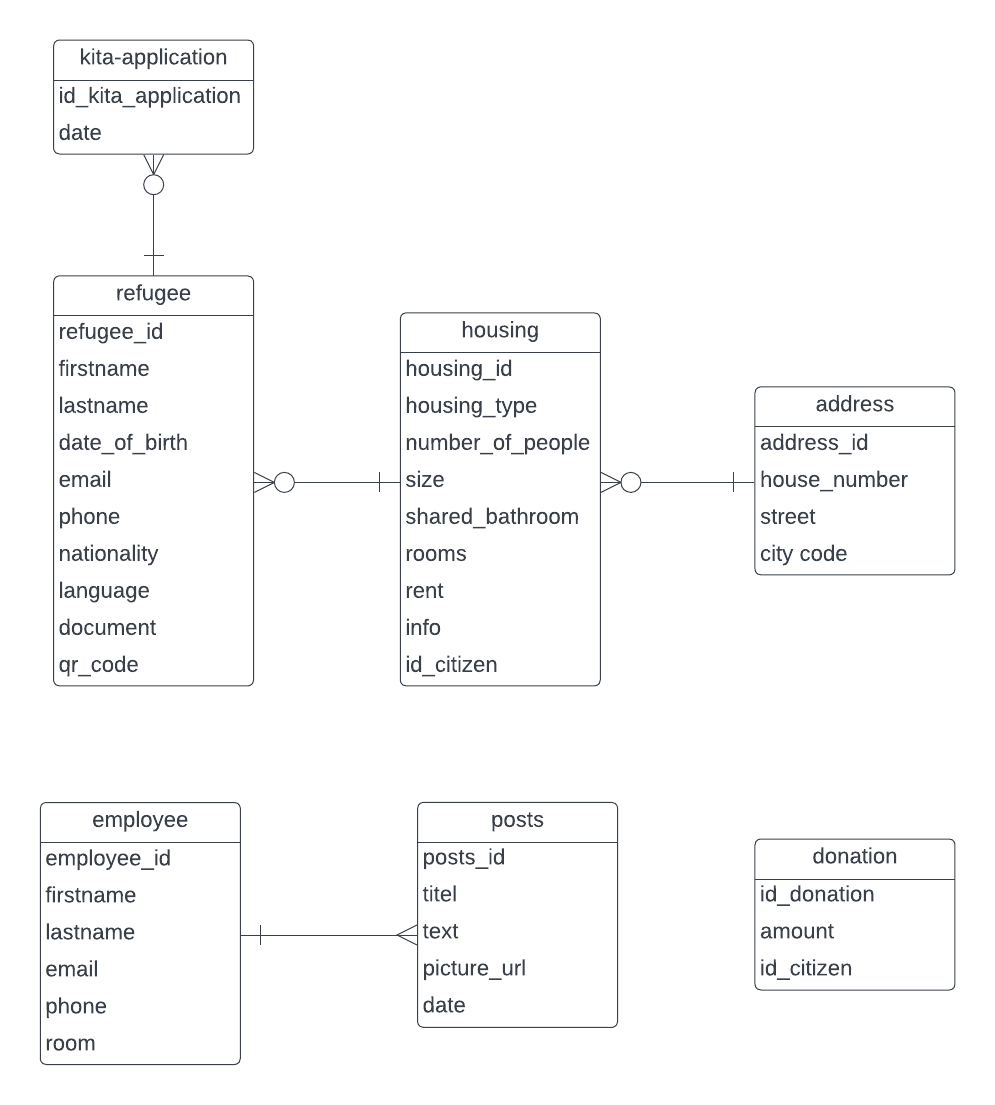
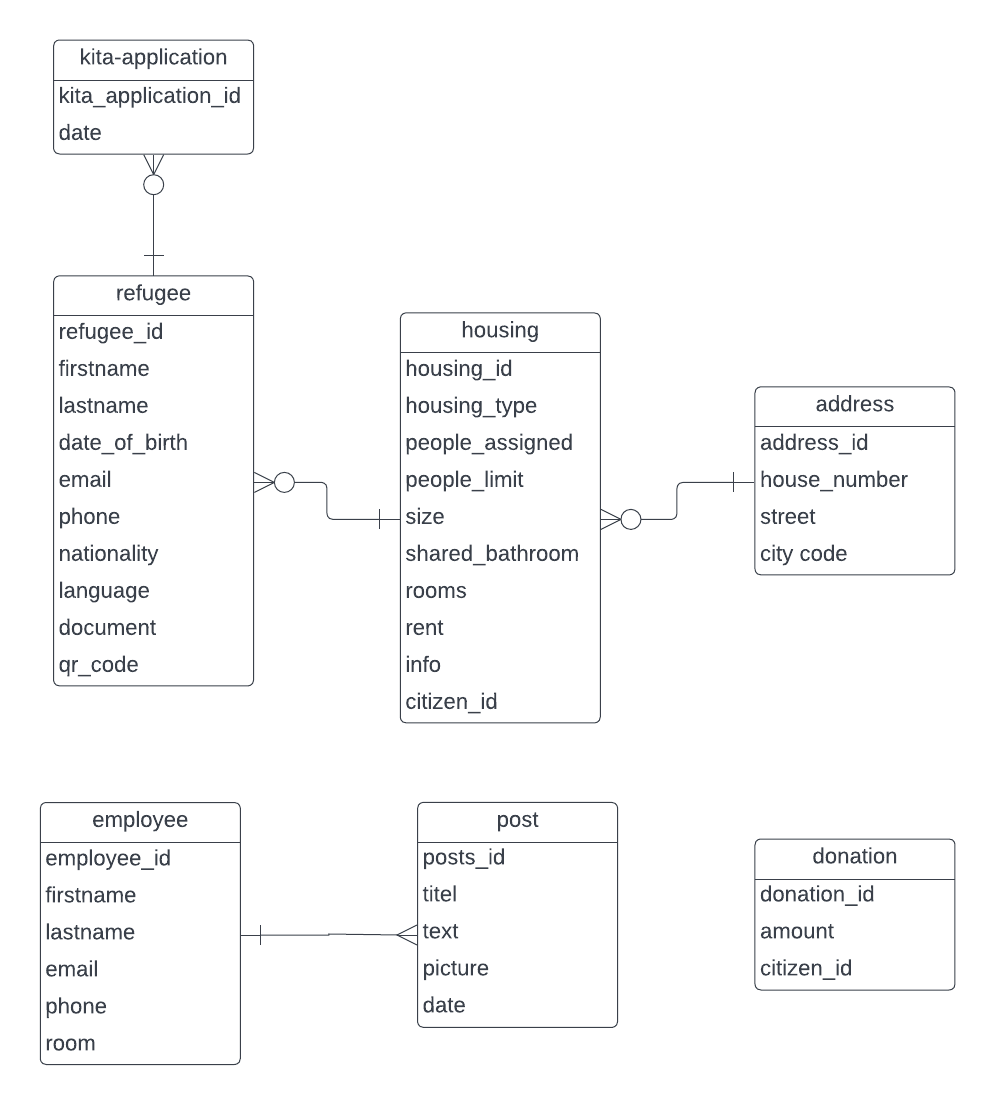
Integration update sprint-meeting
citizen_id to Integer
update interfaces
update database model

diff --git a/amt_fuer_integration/index.md b/amt_fuer_integration/index.md
@@ -286,10 +286,10 @@ http://smart.city/microservices/integration <!--- TODO replace --->
 | :------ | :------ | :----- | 
 | Bürgerbüro | private.integration | {<br>"event_id": 9000,<br>"event_name":"Register New Refugee",<br>"service_name": "integration",<br>"refugee": {<br>&emsp;"firstname": "John",<br>&emsp;"lastname": "Doe",<br>&emsp;"date of birth": "2000-01-20",<br>&emsp;"email": "john@doe.com",<br>&emsp;}<br> } |
 | Bürgerbüro | private.integration | {<br>"event_id": 9001,<br>"event_name":"Register New Refugee Family",<br>"service_name": "integration",<br>"parents": \[ {<br>&emsp;"firstname": "John",<br>&emsp;"lastname": "Doe",<br>&emsp;"date of birth": "12.08.2000",<br>&emsp;"email": "john@doe.com",<br>&emsp;},<br>&emsp;{<br>&emsp;"firstname": "John",<br>&emsp;"lastname": "Doe",<br>&emsp;"date of birth": "12.08.2000",<br>&emsp;"email": "john@doe.com",<br>&emsp;} \],<br>"children": \[ {<br>&emsp;"firstname": "John",<br>&emsp;"lastname": "Doe",<br>&emsp;"date of birth": "12.08.2000",<br>&emsp;"email": "john@doe.com",<br>&emsp;},<br>&emsp;{<br>&emsp;"firstname": "John",<br>&emsp;"lastname": "Doe",<br>&emsp;"date of birth": "12.08.2000",<br>&emsp;"email": "john@doe.com",<br>&emsp;} \]<br> } |
-| Kita-Verwaltung | private.integration | {<br>"event_id": 9002,<br>"event_name":"Refugee Kita Application",<br>"service_name": "integration",<br>"care_time": 35,<br>"child": { "id_citizen": "testid" },<br>"parent": \[{ "id_citizien": "testid" }, { "id_citizien": "testid" }, \]<br>} |
-| Finanzamt | private.integration | {<br>"event_id": 9003,<br>"event_name": "Notify Incoming Donation",<br>"service_name": "integration",<br>"amount": 50.45,<br>"id_citizen": "testid"<br>} |
-| Newsletter| public.integration | {<br>"event_id": 9004,<br>"event_name": "New Newsletter Post",<br>"service_name": "integration",<br>"title": "xyz",<br>"text": "foo bar long",<br>"date": DD.MM.YYYY (optional)<br>} |
-| Landing Page | public.integration | {<br>"event_id": 9005,<br>"event_name": "Update About Us",<br>"service_name": "integration",<br>"date": DD.MM.YYYY,<br>"about_us": "about us foo bar text .. ",<br>"picture": "https://google.de/picture1"<br>} |
+| Kita-Verwaltung | private.integration | {<br>"event_id": 9002,<br>"event_name":"Refugee Kita Application",<br>"service_name": "integration",<br>"care_time": 35,<br>"child": { "citizen_id": 12345 },<br>"parent": { "citizen_id": 12345 }<br>} |
+| Finanzamt | private.integration | {<br>"event_id": 9003,<br>"event_name": "Notify Incoming Donation",<br>"service_name": "integration",<br>"amount": 50.45,<br>"citizen_id": 12345<br>} |
+| Newsletter| public.integration | {<br>"event_id": 9004,<br>"event_name": "New Newsletter Post",<br>"service_name": "integration",<br>"title": "xyz",<br>"text": "foo bar long",<br>"picture": "https://google.de/picture1"<br>"date": YYYY-MM-DDTHH:MM:SS (optional)<br>} |
+| Landing Page | public.integration | {<br>"event_id": 9005,<br>"event_name": "Update About Us",<br>"service_name": "integration",<br>"date": YYYY-MM-DDTHH:MM:SS,<br>"about_us": "about us foo bar text .. ",<br>"picture": "https://google.de/picture1"<br>} |
 
 #### Queries
 
